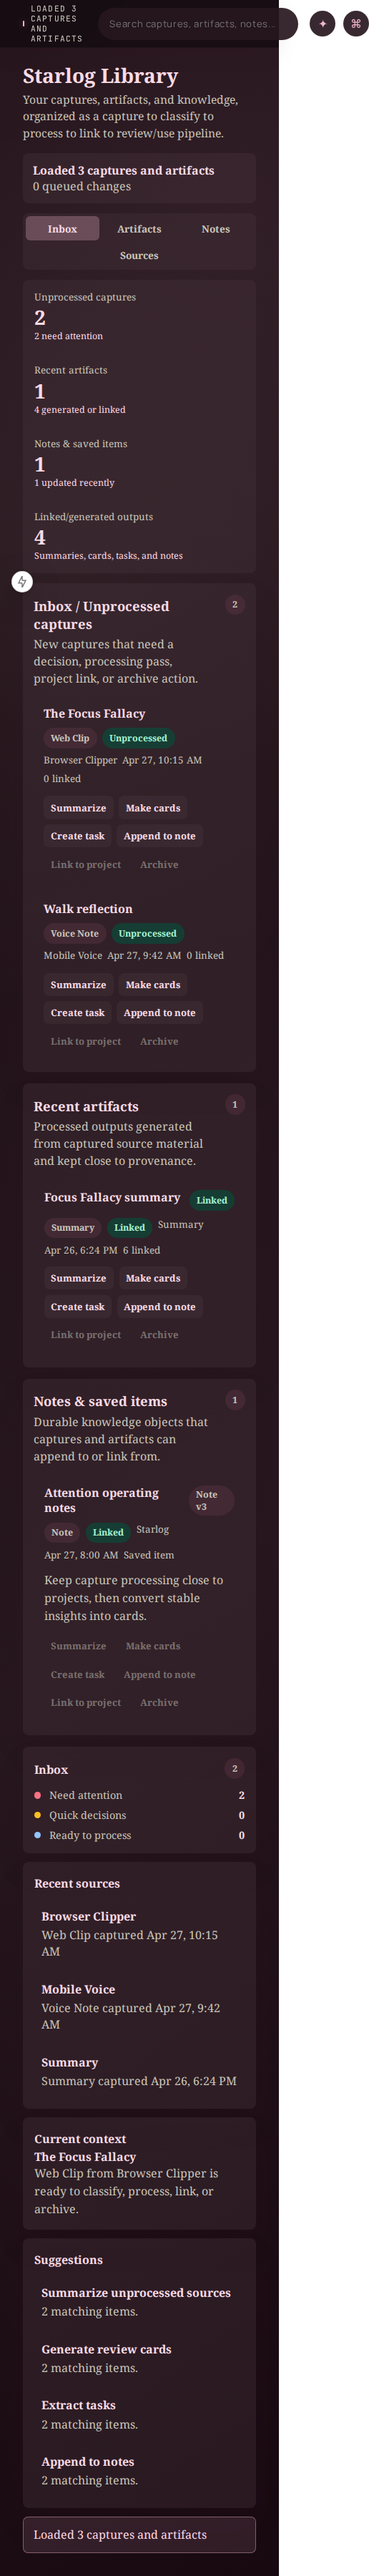
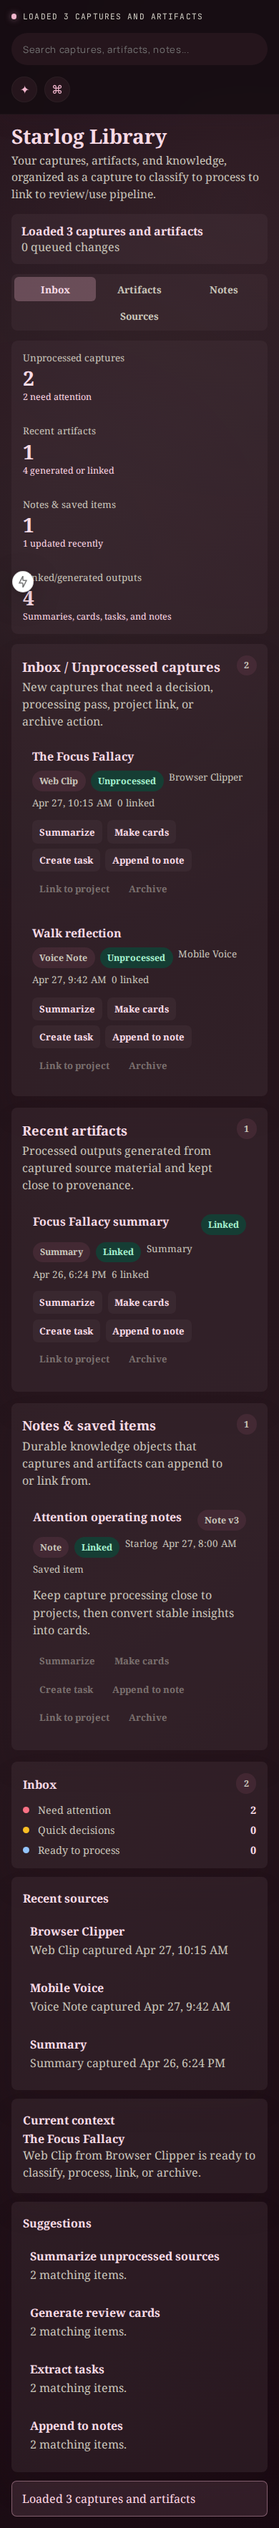
Fix Library mobile shell overflow

diff --git a/apps/web/tests/ui-functional/pwa-library.functional.spec.ts b/apps/web/tests/ui-functional/pwa-library.functional.spec.ts
@@ -384,6 +384,7 @@ test("PWA library renders the capture pipeline with mocked API data", async ({ p
   await expect(page.getByRole("navigation", { name: "Library sections" })).toBeVisible();
   await expect(page.getByRole("button", { name: "Make cards" }).first()).toBeVisible();
   await page.screenshot({ path: `${screenshotDir}/pwa-library-main-mobile.png`, fullPage: true });
+  await expect(await page.evaluate(() => document.documentElement.scrollWidth <= window.innerWidth + 1)).toBe(true);
   await expect(await page.getByTestId("library-surface").evaluate((surface) => {
     const rect = surface.getBoundingClientRect();
     return rect.left >= 0 && rect.right <= document.documentElement.clientWidth + 1;

diff --git a/apps/web/app/globals.css b/apps/web/app/globals.css
@@ -2269,6 +2269,36 @@ a {
   padding-top: 1.2rem;
 }
 
+@media (max-width: 900px) {
+  .april-shell,
+  .april-shell-column,
+  .april-topbar,
+  .april-shell-content {
+    width: 100%;
+    max-width: 100%;
+    min-width: 0;
+  }
+
+  .april-topbar {
+    grid-template-columns: minmax(0, 1fr);
+    padding: 1rem;
+  }
+
+  .april-topbar-status,
+  .april-topbar-search,
+  .april-topbar-actions {
+    min-width: 0;
+  }
+
+  .april-topbar-actions {
+    justify-content: flex-start;
+  }
+
+  .april-shell-content {
+    padding: 1rem;
+  }
+}
+
 .april-main-room-desktop {
   display: grid;
   grid-template-columns: minmax(0, 1fr);
